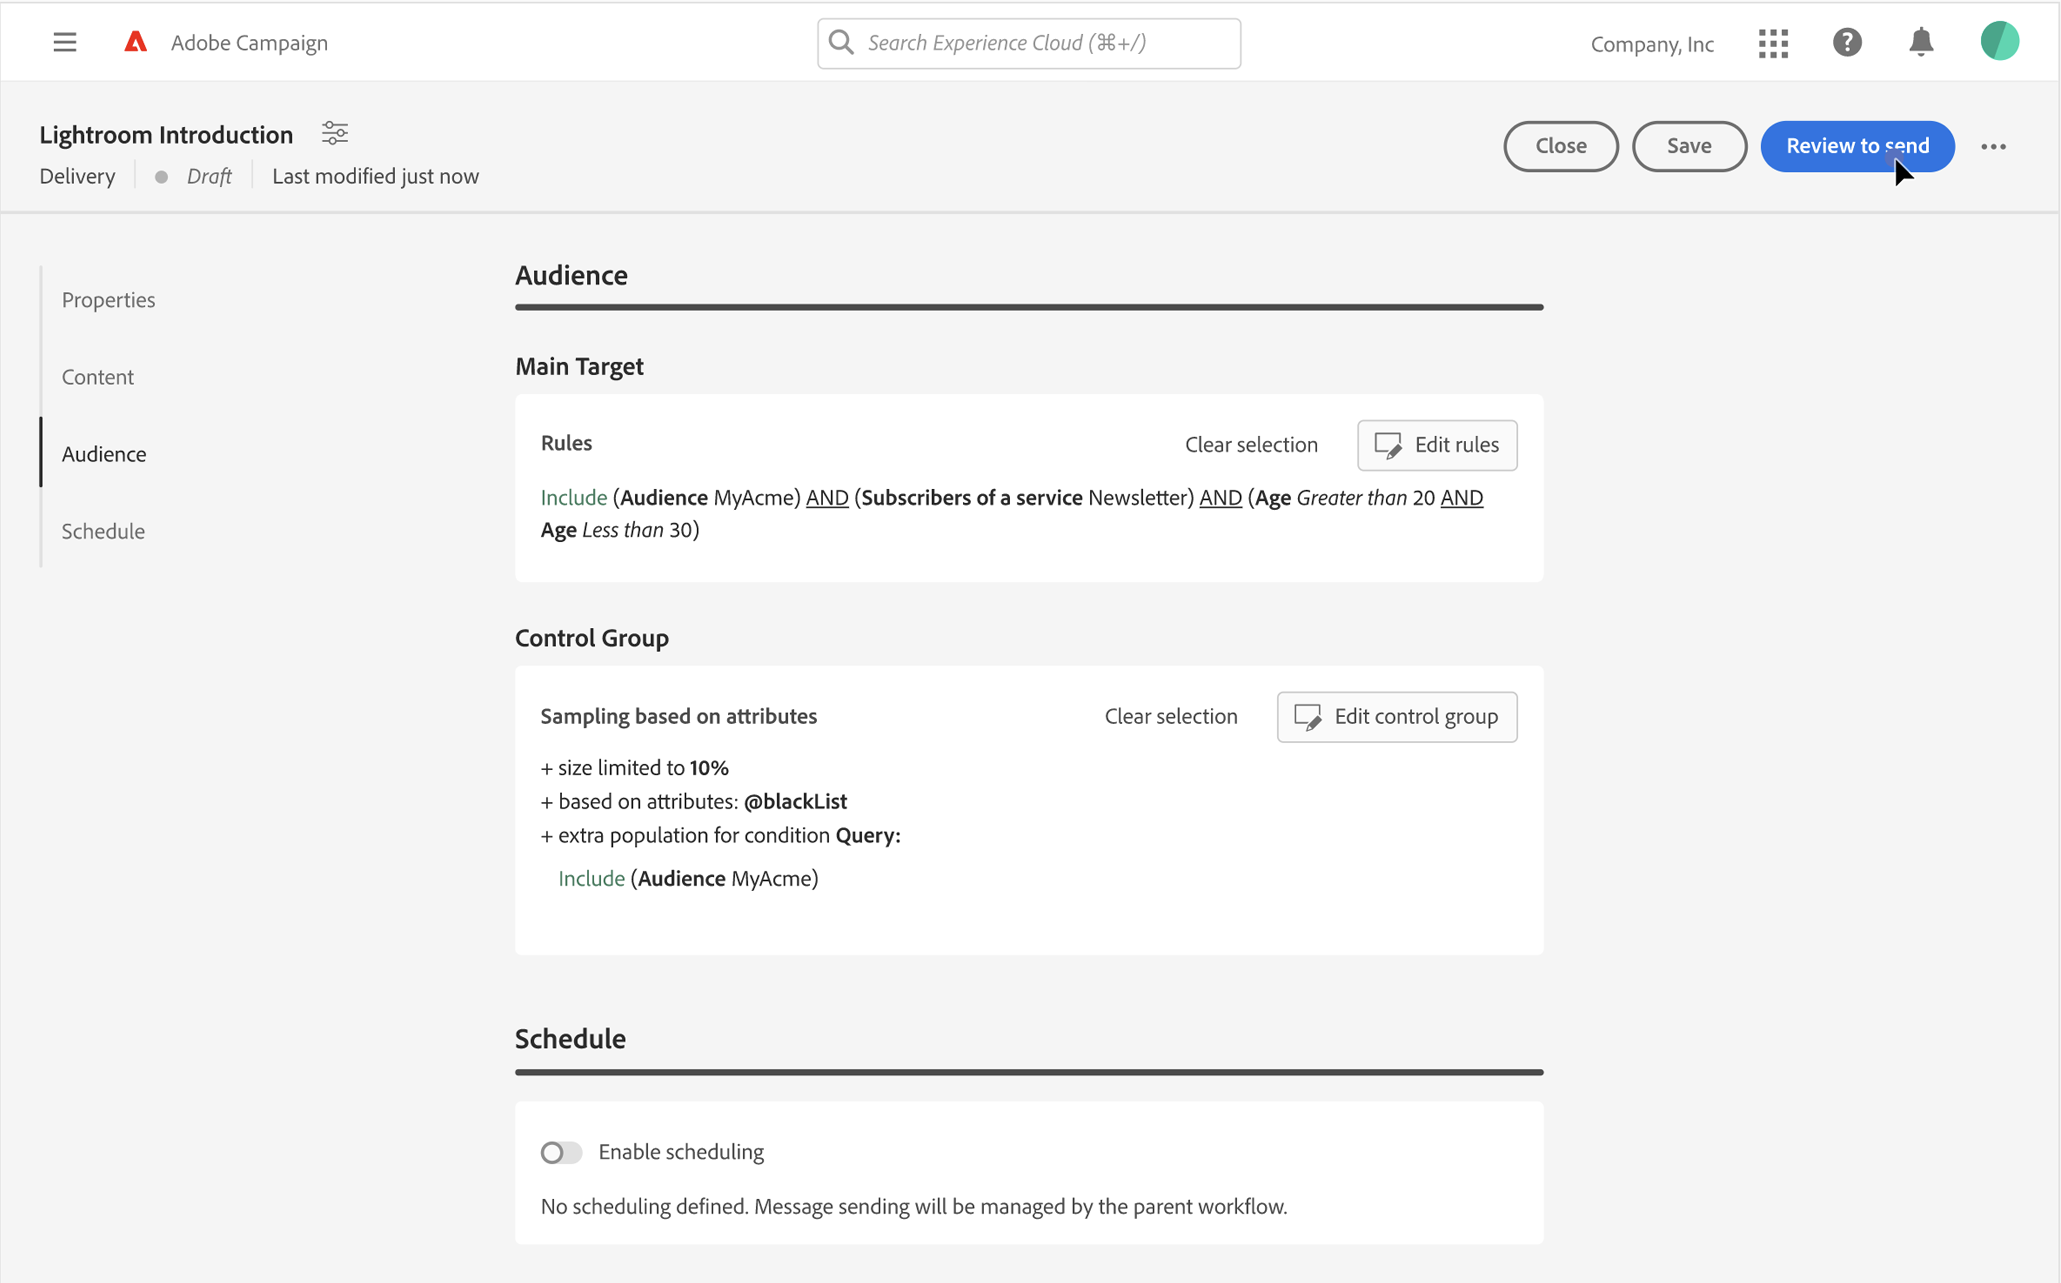
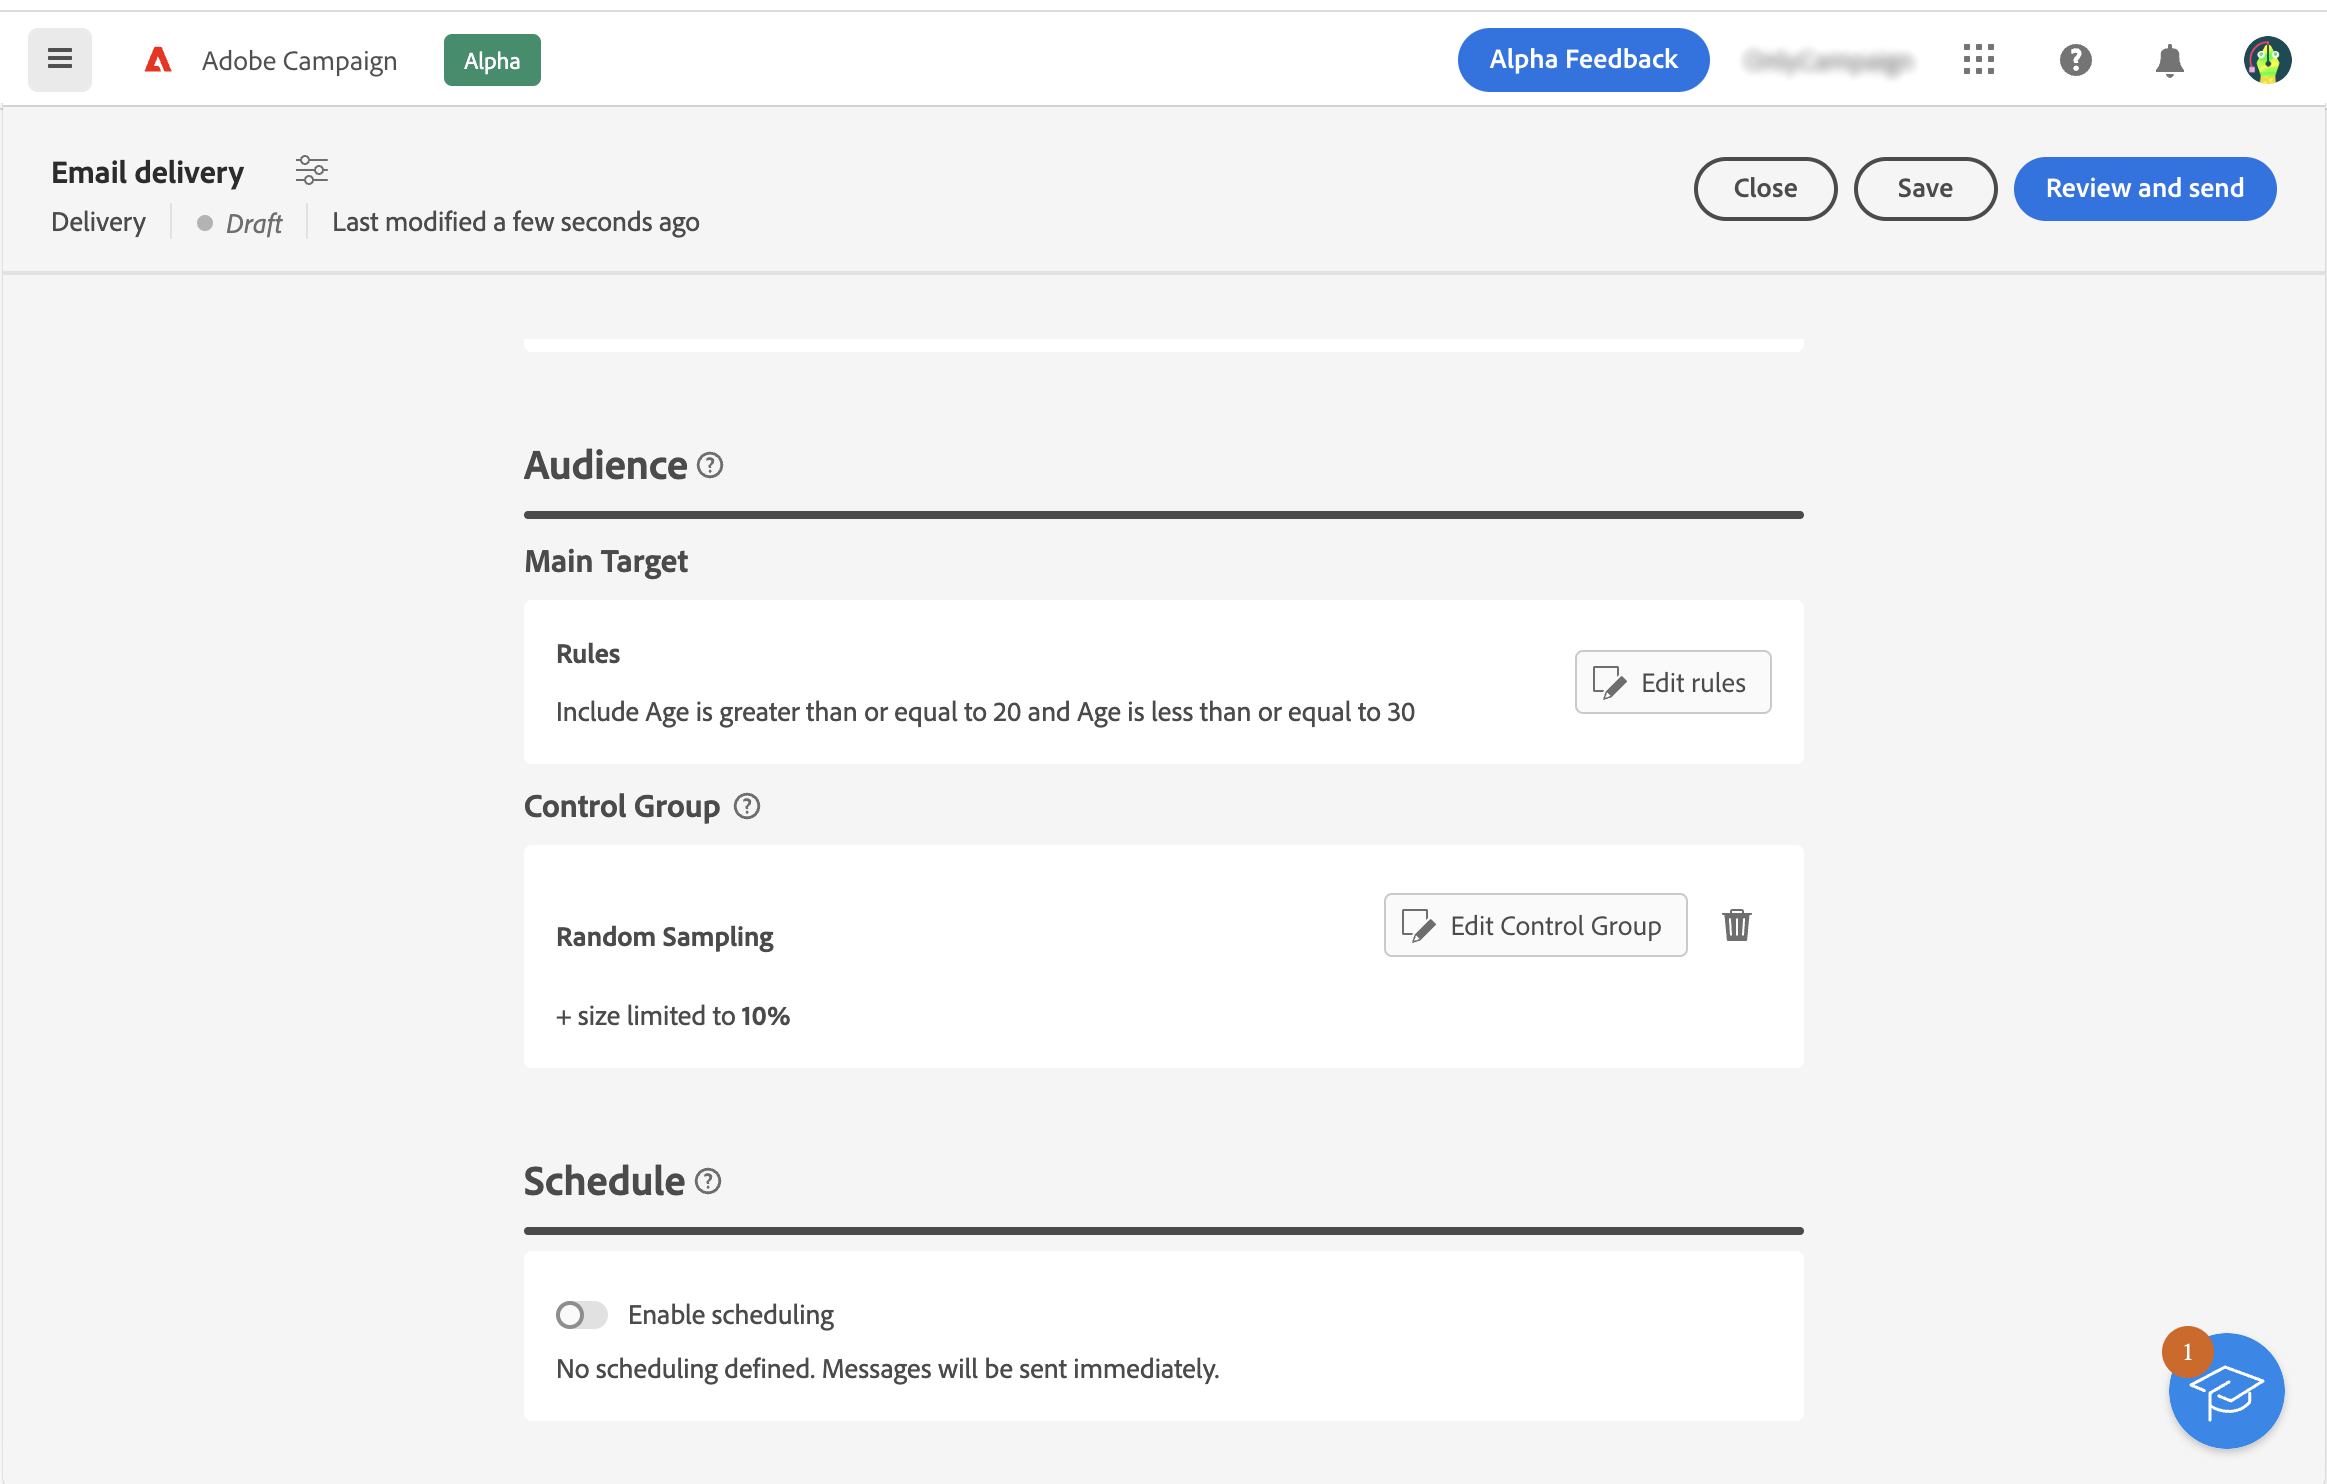
update

diff --git a/help/v8/audience/control-group.md b/help/v8/audience/control-group.md
@@ -14,8 +14,6 @@ You can use control groups to avoid sending messages to a portion of your audien
 
 To do this, create a control group when defining the audience of your delivery. Profiles are added to the control group randomly, filtered or not, or based on criteria. You will then be able to compare the behavior of the target population which did receive the message with the behavior of contacts which were not targeted. 
 
-![](assets/control-group.png)
-
 The control group can be extracted randomly from the main target and/or selected from a specific population. Consequently, there are two main ways you can define a control group:
 
 * Extract a number of profiles from the main target.
@@ -26,7 +24,7 @@ You can use both methods when defining a control group.
 All profiles being part of the control group at the delivery preparation step will be removed from the main target. They will not receive the message once it is sent.
 
 ## Extract from target {#extract-target}
-
+	
 >[!CONTEXTUALHELP]
 >id="acw_deliveries_email_controlgroup_target"
 >title="Extract from target"
@@ -40,7 +38,11 @@ Under the **Extract from target** section, choose an **Exclusion type**:
 
 * **Random**: when preparing the delivery, Adobe Campaign will randomly extract a number of profiles corresponding to the percentage or to the maximum number that you will set as the size limit.
 
+    ![](assets/control-group.png)
+
 * **Ranked by attribute(s)**: this option enables you to define a limitation based on one or more sorting orders.
+
+    ![](assets/control-group2.png)
 
 Then define the **Size limit**: you must set how you are going to limit the number of profiles that you extract from the main target. 
 
@@ -51,10 +53,10 @@ Then define the **Size limit**: you must set how you are going to limit the numb
 >title="Extra population"
 >abstract="TBC"
 
-Another way to define a control group is to exclude a specific population from the target using an audience.
+Another way to define a control group is to exclude a specific population from the target using an existing audience or by defining a query.
 
-To do this, from the **Extra population** section, click **Select audience**.
+* To use an existing audience, click **Select audience** from the **Extra population** section.
 
-Define the exclusion criteria using the segment builder. You can also select an audience that was previously created.
+* To define a new query, select **Create your own** and define the exclusion criteria using the segment builder. refer to this [section](segment-builder.md). 
 
-The profiles matching the result of the query will be excluded from the target.
+The profiles included in the audience or matching the result of the query will be excluded from the target.

diff --git a/help/v8/audience/add-audience.md b/help/v8/audience/add-audience.md
@@ -19,17 +19,23 @@ exl-id: 76873315-a2eb-4936-bd10-6759bf603dd0
 
 This section explains how to select an existing audience, when defining the target population of an email delivery. If you want to create a new audience, refer to this [section](segment-builder.md).
 
-![](../email/assets/create-audience.png)
-
 1. In the delivery creation assistant, click the **[!UICONTROL Select audience]** button.
 
     This screen displays all existing audiences defined in the Adobe Campaign console.
 
+   ![](assets/create-audience.png)
+
 1. Choose an audience and click **Select**.
 
-1. Click **Edit rules** if you want to refine your audience b
+   ![](assets/create-audience2.png)
+
+1. Click **Edit rules** if you want to refine your audience.
+
+   ![](assets/create-audience3.png)
 
 1. Using the segment builder, you can enrich your audience with additional filters or by combining different audiences. See this [section](segment-builder.md).
+
+   ![](assets/create-audience4.png)
 
 1. Click **Save**. 
 
